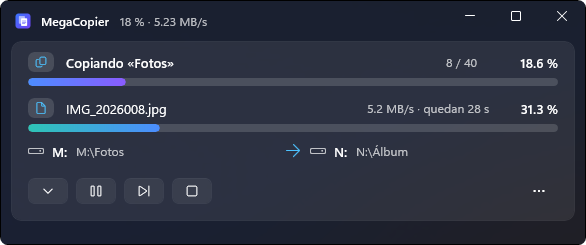
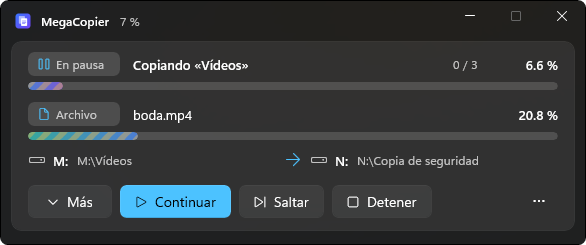
Novedades de la versión 1.3.0 descritas con detalle y con imágenes; ajustes alineados sin cortes en ventanas estrechas
- Las galerías ya no usan margen negativo (WinUI recortaba el recuadro de la elegida).
- Las filas que ocupaban hasta el control siguen llegando al final tras la columna del «i».
- Las horas del límite por horario pasan a dos líneas si no caben; las casillas de «Al mover» en dos columnas.
- Capturas nuevas: ventana pequeña, lista, pregunta en la ventana pequeña, iconos y ajustes.

diff --git a/src/MegaCopier.App/Views/SettingsPage.xaml b/src/MegaCopier.App/Views/SettingsPage.xaml
@@ -203,7 +203,7 @@
                         </Grid>
                     </StackPanel>
                 </Border>                <TextBlock x:Name="ThemesLabel" x:Uid="Settings_Themes" Style="{StaticResource McSection}" />
-                <GridView x:Name="ThemeGallery" AutomationProperties.LabeledBy="{x:Bind ThemesLabel}" SelectionMode="Single" SelectionChanged="ThemeGallery_SelectionChanged" Margin="-8,-4,0,0" Padding="4,4,0,0">
+                <GridView x:Name="ThemeGallery" AutomationProperties.LabeledBy="{x:Bind ThemesLabel}" SelectionMode="Single" SelectionChanged="ThemeGallery_SelectionChanged" Padding="4,4,4,0">
                     <GridView.ItemContainerTransitions>
                         <TransitionCollection>
                             <EntranceThemeTransition IsStaggeringEnabled="True" />
@@ -271,7 +271,7 @@
                 </Expander>
                 <TextBlock x:Name="IconsLabel" x:Uid="Settings_Icons" Style="{StaticResource McSection}" />
                 <TextBlock x:Uid="Settings_IconsDescription" Style="{StaticResource McSecondary}" TextWrapping="Wrap" Margin="2,-2,0,6" />
-                <GridView x:Name="IconGallery" AutomationProperties.LabeledBy="{x:Bind IconsLabel}" SelectionMode="Single" SelectionChanged="IconGallery_SelectionChanged" Margin="-8,-4,0,0" Padding="4,4,0,0" />
+                <GridView x:Name="IconGallery" AutomationProperties.LabeledBy="{x:Bind IconsLabel}" SelectionMode="Single" SelectionChanged="IconGallery_SelectionChanged" Padding="4,4,4,0" />
                 <StackPanel x:Name="BarsHost" Spacing="8" Margin="0,8,0,0" />
                 </StackPanel>                <StackPanel x:Name="Sec_Sounds" Visibility="Collapsed">
                 <Border Style="{StaticResource McSettingCard}">
@@ -384,7 +384,7 @@
                             <StackPanel Grid.Column="1"><Grid ColumnSpacing="4"><Grid.ColumnDefinitions><ColumnDefinition Width="*" /><ColumnDefinition Width="Auto" /></Grid.ColumnDefinitions><TextBlock x:Name="MoveAttributesTitleLabel" x:Uid="Settings_MoveAttributesTitle" Style="{StaticResource McBody}" TextWrapping="Wrap" VerticalAlignment="Center" /><c:InfoTip Grid.Column="1" Topic="MoveAttributes" Margin="0,-4,0,-4" /></Grid><TextBlock x:Uid="Settings_MoveAttributesDescription" Style="{StaticResource McSecondary}" TextWrapping="Wrap" /></StackPanel>
                             
                         </Grid>
-                        <VariableSizedWrapGrid Orientation="Horizontal" ItemWidth="220" ItemHeight="40" Margin="30,0,0,0">
+                        <VariableSizedWrapGrid Orientation="Horizontal" ItemWidth="190" ItemHeight="40" Margin="30,0,0,0">
                             <CheckBox x:Name="MoveAttributesBox" x:Uid="Options_Attributes" Click="Changed" />
                             <CheckBox x:Name="MoveAclBox" x:Uid="Options_Acl" Click="Changed" />
                             <CheckBox x:Name="MoveOwnerBox" x:Uid="Options_Owner" Click="Changed" />
@@ -514,12 +514,11 @@
                             <ComboBoxItem x:Uid="Slow_Off" Tag="0" /><ComboBoxItem Content="5 MB/s" Tag="5" /><ComboBoxItem Content="20 MB/s" Tag="20" />
                             <ComboBoxItem Content="50 MB/s" Tag="50" /><ComboBoxItem Content="100 MB/s" Tag="100" />
                         </ComboBox>
-                        <StackPanel x:Name="ScheduleLimitTimes" Grid.Row="1" Grid.Column="1" Grid.ColumnSpan="2" Orientation="Horizontal" Spacing="8">
-                            <TextBlock x:Name="ScheduleFromLabel" x:Uid="Settings_ScheduleFrom" VerticalAlignment="Center" Style="{StaticResource McSecondary}" />
-                            <TimePicker x:Name="ScheduleFromBox" AutomationProperties.LabeledBy="{x:Bind ScheduleFromLabel}" ClockIdentifier="24HourClock" MinWidth="120" TimeChanged="Time_Changed" />
-                            <TextBlock x:Name="ScheduleToLabel" x:Uid="Settings_ScheduleTo" VerticalAlignment="Center" Style="{StaticResource McSecondary}" />
-                            <TimePicker x:Name="ScheduleToBox" AutomationProperties.LabeledBy="{x:Bind ScheduleToLabel}" ClockIdentifier="24HourClock" MinWidth="120" TimeChanged="Time_Changed" />
-                        </StackPanel>
+                        <!-- «De» y «a» en una línea si caben; si no, una debajo de otra (el selector de hora no se puede estrechar) -->
+                        <VariableSizedWrapGrid x:Name="ScheduleLimitTimes" Grid.Row="1" Grid.Column="1" Grid.ColumnSpan="2" Orientation="Horizontal" ItemWidth="290" ItemHeight="40">
+                            <StackPanel Orientation="Horizontal" Spacing="8"><TextBlock x:Name="ScheduleFromLabel" x:Uid="Settings_ScheduleFrom" VerticalAlignment="Center" Style="{StaticResource McSecondary}" /><TimePicker x:Name="ScheduleFromBox" AutomationProperties.LabeledBy="{x:Bind ScheduleFromLabel}" ClockIdentifier="24HourClock" TimeChanged="Time_Changed" /></StackPanel>
+                            <StackPanel Orientation="Horizontal" Spacing="8"><TextBlock x:Name="ScheduleToLabel" x:Uid="Settings_ScheduleTo" VerticalAlignment="Center" Style="{StaticResource McSecondary}" /><TimePicker x:Name="ScheduleToBox" AutomationProperties.LabeledBy="{x:Bind ScheduleToLabel}" ClockIdentifier="24HourClock" TimeChanged="Time_Changed" /></StackPanel>
+                        </VariableSizedWrapGrid>
                     </Grid>
                 </Border>
                 <Border Style="{StaticResource McSettingCard}">

diff --git a/src/MegaCopier.App/Views/SettingsPage.Layout.cs b/src/MegaCopier.App/Views/SettingsPage.Layout.cs
@@ -40,7 +40,6 @@ public sealed partial class SettingsPage
 
     private static void PolishRow(Grid row)
     {
-        bool hasControl = row.Children.OfType<FrameworkElement>().Any(c => Grid.GetColumn(c) >= 2 && c is not InfoTip);
         foreach (var child in row.Children.OfType<FrameworkElement>())
         {
             if (Grid.GetColumn(child) >= 1)
@@ -49,7 +48,7 @@ public sealed partial class SettingsPage
             }
         }
 
-        if (!hasControl || row.Children.OfType<StackPanel>().FirstOrDefault(s => Grid.GetColumn(s) == 1) is not { } texts
+        if (row.Children.OfType<StackPanel>().FirstOrDefault(s => Grid.GetColumn(s) == 1) is not { } texts
             || texts.Children.OfType<Grid>().FirstOrDefault(g => g.Children.OfType<InfoTip>().Any()) is not { } titleLine)
         {
             return;
@@ -59,9 +58,17 @@ public sealed partial class SettingsPage
         var info = titleLine.Children.OfType<InfoTip>().First();
         info.Label ??= titleLine.Children.OfType<TextBlock>().FirstOrDefault()?.Text;
         titleLine.Children.Remove(info);
-        foreach (var child in row.Children.OfType<FrameworkElement>().Where(c => Grid.GetColumn(c) >= 2))
+        foreach (var child in row.Children.OfType<FrameworkElement>())
         {
-            Grid.SetColumn(child, Grid.GetColumn(child) + 1);
+            int column = Grid.GetColumn(child);
+            if (column >= 2)
+            {
+                Grid.SetColumn(child, column + 1);
+            }
+            else if (column + Grid.GetColumnSpan(child) > 2)
+            {
+                Grid.SetColumnSpan(child, Grid.GetColumnSpan(child) + 1); // lo que ocupaba hasta el control sigue llegando
+            }
         }
 
         row.ColumnDefinitions.Insert(2, new ColumnDefinition { Width = GridLength.Auto });
@@ -80,7 +87,10 @@ public sealed partial class SettingsPage
     {
         var below = stack.Children.Skip(1).OfType<FrameworkElement>().ToList();
         bool hasControl = row.Children.OfType<FrameworkElement>().Any(c => Grid.GetColumn(c) >= 2 && c is not InfoTip);
-        if (!hasControl || below.Count == 0 || below.Any(e => e.Margin.Left < TextIndent)
+        // Los campos para escribir (horas, números, rutas) necesitan su ancho: con ellos la tarjeta se queda como está.
+        static bool HasInput(object element) => element is TextBox or NumberBox or ComboBox or Slider or TimePicker or PasswordBox
+            || LogicalDescendants<Control>(element).Any(c => c is TextBox or NumberBox or ComboBox or Slider or TimePicker or PasswordBox);
+        if (!hasControl || below.Count == 0 || below.Any(e => e.Margin.Left < TextIndent || e is VariableSizedWrapGrid || HasInput(e))
             || row.Children.OfType<StackPanel>().FirstOrDefault(s => Grid.GetColumn(s) == 1) is not { } texts)
         {
             return;

diff --git a/src/MegaCopier.App/Views/SettingsPage.Bars.cs b/src/MegaCopier.App/Views/SettingsPage.Bars.cs
@@ -129,7 +129,7 @@ public sealed partial class SettingsPage
 
         // Galería de estilos, cada uno moviéndose.
         BarsHost.Children.Add(new TextBlock { Text = L.Get("Bars_Styles"), Style = Res<Style>("McStrong"), Margin = new Thickness(2, 8, 0, 0) });
-        _barGallery = new GridView { SelectionMode = ListViewSelectionMode.Single, Margin = new Thickness(-8, -4, 0, 0), Padding = new Thickness(4, 4, 0, 0) };
+        _barGallery = new GridView { SelectionMode = ListViewSelectionMode.Single, Padding = new Thickness(4, 4, 4, 0) };
         AutomationProperties.SetName(_barGallery, L.Get("Bars_Styles"));
         var barItems = new List<object>();
         foreach (var style in AllBarStyles)

diff --git a/CHANGELOG.md b/CHANGELOG.md
@@ -5,72 +5,107 @@ y las versiones, [SemVer](https://semver.org/lang/es/).
 
 ## [Sin publicar]
 
+Renovamos la ventana de copia con tres vistas (la pequeña, la de la lista y la de varias copias), reconstruimos el menú
+«Nueva» con un único selector para archivos y carpetas, añadimos 16 conjuntos de iconos al estilo de otros sistemas y 19
+sonidos originales, y pulimos los detalles: botones con animación, rutas que se pueden pulsar, preguntas que caben en la
+ventana pequeña, ajustes perfectamente alineados y copias con «acceso denegado» que se resuelven solas.
+
+<img src="https://github.com/cbatista96/MegaCopier/raw/v1.3.0/docs/capturas/lista.png" width="620" alt="Vista con la lista de archivos, la búsqueda a la izquierda y el círculo de progreso del archivo en curso">
+
 ### Añadido
 
-- Tres vistas de la ventana de copia: la pequeña (la de siempre al copiar), la de la lista de archivos («Más») y la de
-  varias copias, que añade a la izquierda la lista de copias solo cuando hay más de una.
-- Se puede pulsar en el panel de la copia:
-  - el título abre la carpeta que se está copiando;
-  - el archivo en curso se muestra marcado en su carpeta;
-  - el origen y el destino muestran, marcado en el Explorador, lo que se copia y su copia.
-- Un solo selector para archivos y carpetas, con un botón «Seleccionar». Marcas una carpeta para elegirla entera, o
-  entras en ella y marcas solo algunos archivos. Se usa en Copiar, Mover, Enviar, Comprobar, Crear sumas, Borrar,
-  copiar a un móvil y el «+» de la lista.
-- 16 conjuntos de iconos nuevos inspirados en otros sistemas:
-  - Android y Android tonal;
-  - macOS y macOS color;
-  - Ubuntu, KDE Plasma, GNOME, elementary OS, Linux Mint, Fedora, Pop!_OS y Arch Linux;
-  - Windows XP, Windows 7 Aero y Windows 8 Metro;
-  - Steam.
+#### Tres vistas de la ventana de copia
 
-  Cada uno tiene su forma (círculos, «squircles», contornos, mosaicos planos), su paleta y su brillo de cristal.
-- 19 sonidos originales de MegaCopier para cualquier momento:
-  - avisos cortos (bip, gota, burbujas, pop…);
-  - notificaciones de 1,5 a 3 s (cristal, arpa, marimba, logro…);
-  - melodías de hasta 4 s (aurora, amanecer, cascada, orbital).
-- «Mostrar más / Mostrar menos» en las galerías de temas, iconos y estilos de barra: se ven los 12 primeros y el resto
+- **Pequeña**, la de siempre al copiar: solo las barras y los botones. Se puede ensanchar, pero no hacer más alta (no
+  habría nada más que ver) ni maximizar.
+- **Con la lista** («Más»): los archivos, el destino, las opciones, la gráfica y el registro. Empieza con un tamaño cómodo,
+  tiene un mínimo con el que todo cabe y se puede maximizar.
+- **Varias copias**: la misma vista, con la lista de copias a la izquierda. Aparece sola cuando hay más de una copia a la
+  vez.
+
+<img src="https://github.com/cbatista96/MegaCopier/raw/v1.3.0/docs/capturas/compacta.png" width="520" alt="Ventana pequeña en pausa, con Continuar, Saltar y Detener">
+
+#### Todo el panel se puede pulsar
+
+- **El título** («Copiando «Juegos»») abre la carpeta que se está copiando.
+- **El archivo** en curso se muestra marcado en su carpeta.
+- **El origen** muestra lo que se copia, marcado en la carpeta donde está.
+- **El destino** muestra la copia ya en el destino, marcada.
+
+#### Un solo selector para archivos y carpetas
+
+- Es el diálogo «Abrir» de Windows con un botón más, **«Seleccionar»**:
+  - marcas una carpeta y la eliges entera;
+  - entras en ella y marcas solo algunos archivos;
+  - sin nada marcado, eliges la carpeta que estás viendo.
+- Se usa en Copiar, Mover, Enviar a otro equipo, Comprobar, Crear archivo de sumas, Borrar, copiar a un móvil y el botón
+  «+» de la lista de archivos.
+
+#### 16 conjuntos de iconos inspirados en otros sistemas (23 en total)
+
+- **Android** y **Android tonal**: círculos de color o tonos suaves, con la paleta de Material.
+- **macOS** y **macOS color**: cuadrados muy redondeados con degradado y reflejo, o los colores del sistema de Apple.
+- **Ubuntu, KDE Plasma, GNOME, elementary OS, Linux Mint, Fedora, Pop!_OS y Arch Linux**: la forma y la paleta de cada
+  escritorio, con contornos, círculos con brillo y fondos suaves.
+- **Windows XP, Windows 7 Aero y Windows 8 Metro**: brillo de cristal, Aero y mosaicos planos.
+- **Steam**: fondos suaves con sus azules y verdes.
+
+<img src="https://github.com/cbatista96/MegaCopier/raw/v1.3.0/docs/capturas/iconos-sistemas.png" width="820" alt="Galería de conjuntos de iconos con Android, macOS, Ubuntu, KDE, GNOME y elementary OS">
+
+#### 19 sonidos originales
+
+- Sintetizados para MegaCopier, sin muestras de terceros, y para cualquier momento (copia terminada, con errores, todas
+  terminadas o cuando hace falta decidir algo):
+  - **avisos cortos** de menos de un segundo: bip, doble bip, pop, gota, burbujas y toque;
+  - **notificaciones** de 1,5 a 3 segundos: pregunta, aviso, alerta grave, marimba, destellos, cristal, eco, arpa y logro;
+  - **melodías** de hasta 4 segundos: cascada, aurora, orbital y amanecer.
+
+#### Más detalles
+
+- **«Mostrar más / Mostrar menos»** en las galerías de temas, iconos y estilos de barra: se ven los 12 primeros y el resto
   al desplegar.
-- Animaciones al pulsar cualquier botón: el botón se hunde y su icono se mueve según lo que significa. El engranaje
-  gira, reproducir avanza, pausa se aprieta y la papelera se sacude.
-- Copias con «acceso denegado» resueltas solas: al terminar, Windows pide permiso de administrador una vez y esos
-  archivos se copian, como en el Explorador (por ejemplo, los `.exe` de los juegos de Xbox). Se puede desactivar en
-  *Ajustes > Errores*. Con MegaCopier ya abierto como administrador, se copian sin preguntar.
+- **Animaciones al pulsar** cualquier botón: el botón se hunde y su icono se mueve según lo que significa. El engranaje
+  gira, reproducir avanza, pausa se aprieta, la papelera se sacude y el historial gira hacia atrás.
+- **Copias con «acceso denegado» resueltas solas**: algunos archivos solo se leen con permisos de administrador (por
+  ejemplo, los `.exe` de los juegos de Xbox y de la Microsoft Store; ni la copia de Windows puede leerlos sin ellos).
+  MegaCopier copia todo lo demás y al final pide permiso una sola vez, como el Explorador. Se puede desactivar en
+  *Ajustes > Errores*; con MegaCopier abierto como administrador, se copian sin preguntar.
 
 ### Cambiado
 
-- Arrastrar archivos con el botón izquierdo entre ventanas del Explorador copia con MegaCopier de serie, como Ctrl+V.
-  También se activa al actualizar.
-- La ventana pequeña:
-  - se puede ensanchar, pero no hacer más alta;
-  - no se maximiza;
-  - sus botones (Continuar, Saltar, Detener…) y los chips «En pausa» y «Archivo» siempre muestran su texto.
-- La vista con la lista tiene un tamaño mínimo con el que todo cabe, empieza con un tamaño cómodo y se puede maximizar.
-- «Saltar» se ve también con la copia en pausa: descarta el archivo y la copia sigue en pausa, lista para empezar el
-  siguiente.
-- «Detener» la única copia la detiene y cierra la ventana. Lo copiado se conserva y al volver a abrir MegaCopier se
+- **Arrastrar con el botón izquierdo** entre ventanas del Explorador copia con MegaCopier de serie, igual que Ctrl+V.
+  También se activa al actualizar; se puede desactivar en *Ajustes > General*.
+- **«Saltar» también en pausa**: descarta el archivo y la copia sigue en pausa, lista para empezar el siguiente.
+- **«Detener» la única copia** la detiene y cierra la ventana. Lo copiado se conserva y al volver a abrir MegaCopier se
   ofrece continuarla.
-- La pregunta «la carpeta ya existe» en la ventana pequeña aparece dentro de ella: las opciones en una fila y su
+- **La pregunta «la carpeta ya existe» en la ventana pequeña** aparece dentro de ella: las opciones en una fila, con su
   explicación al pasar el ratón, sin tener que desplazarse.
-- El menú «Nueva», ordenado en grupos y submenús:
-  - Copiar y Mover;
-  - Enviar y móviles;
-  - Comprobar y reparar;
-  - Copias de seguridad;
-  - Borrar.
 
-  Ya no repite cada opción para archivos y para carpetas.
-- La lista de archivos:
-  - la búsqueda queda pegada a la izquierda y encoge si falta sitio;
-  - las casillas van siempre a su lado;
+<img src="https://github.com/cbatista96/MegaCopier/raw/v1.3.0/docs/capturas/carpeta-pequena.png" width="520" alt="La carpeta ya existe, preguntado dentro de la ventana pequeña">
+
+- **La ventana pequeña** muestra siempre el texto de sus botones (Continuar, Saltar, Detener…) y los chips «En pausa» y
+  «Archivo» con su icono.
+- **El menú «Nueva»**, ordenado en grupos y submenús, sin opciones repetidas para archivos y para carpetas:
+  - Copiar, Mover, Copiar a y Cargar una lista;
+  - Enviar a otro equipo, Móviles, cámaras y servidores, Comparar y sincronizar;
+  - Comprobar y reparar, Copias de seguridad;
+  - Borrar y Borrar de forma segura.
+- **La lista de archivos**:
+  - la búsqueda queda pegada a la izquierda, crece hasta un máximo y encoge si falta sitio;
+  - *Ocultar los terminados* y *Seguir al actual* van siempre a su lado, en la misma fila;
   - la barra de botones empieza a la altura de «Origen» y enseña siempre todos sus botones (más pequeños si la lista es
     baja);
-  - el archivo en curso lleva un círculo que se llena con su progreso.
-- En Ajustes, cada control (desplegable, interruptor, número, botón) y su ⓘ quedan centrados en su tarjeta.
-- Cambiar de tema se hace con un fundido suave y la página ya no vuelve al principio.
-- La vista previa de las barras se queda a media barra mientras «copia» (también después de verla «Terminada»).
-- En Sonidos, «Elegir un archivo…» está al principio de la lista, con los sonidos agrupados en MegaCopier y Windows.
-- «Archivos y carpetas» en Opciones lleva un solo icono.
-- El menú «…» de la ventana pequeña lleva iconos en todas sus opciones.
+  - el archivo en curso lleva un círculo que se va llenando con su progreso y se cierra al terminarlo.
+- **Ajustes, alineados**: cada control (desplegable, interruptor, número, botón) y su ⓘ quedan centrados en su tarjeta, y
+  los campos de número tienen el valor centrado. Las horas del límite por horario pasan a dos líneas si no caben.
+
+<img src="https://github.com/cbatista96/MegaCopier/raw/v1.3.0/docs/capturas/ajustes-centrado.png" width="820" alt="Ajustes con los controles y la ayuda centrados en cada tarjeta">
+
+- **Cambiar de tema** se hace con un fundido suave y la página ya no vuelve al principio.
+- **La vista previa de las barras** se queda a media barra mientras «copia», también después de verla «Terminada».
+- **Sonidos**: «Elegir un archivo…» está el primero de la lista, con los sonidos agrupados en MegaCopier y Windows.
+- «Archivos y carpetas» en Opciones lleva un solo icono, y el menú «…» de la ventana pequeña lleva iconos en todas sus
+  opciones.
 
 ### Arreglado
 

diff --git a/docs/Guia.md b/docs/Guia.md
@@ -105,6 +105,8 @@ Se puede pulsar en casi todo:
 Si una pregunta (por ejemplo, «la carpeta ya existe») llega con la ventana pequeña, aparece **dentro de ella**, en el
 sitio del progreso: las opciones en una fila, con la explicación de cada una al pasar el ratón.
 
+![La carpeta ya existe, preguntado dentro de la ventana pequeña](capturas/carpeta-pequena.png)
+
 Cuando todo termina bien, la ventana se cierra sola (*Ajustes > Interfaz > Al terminar las copias*).
 
 ### Completa
